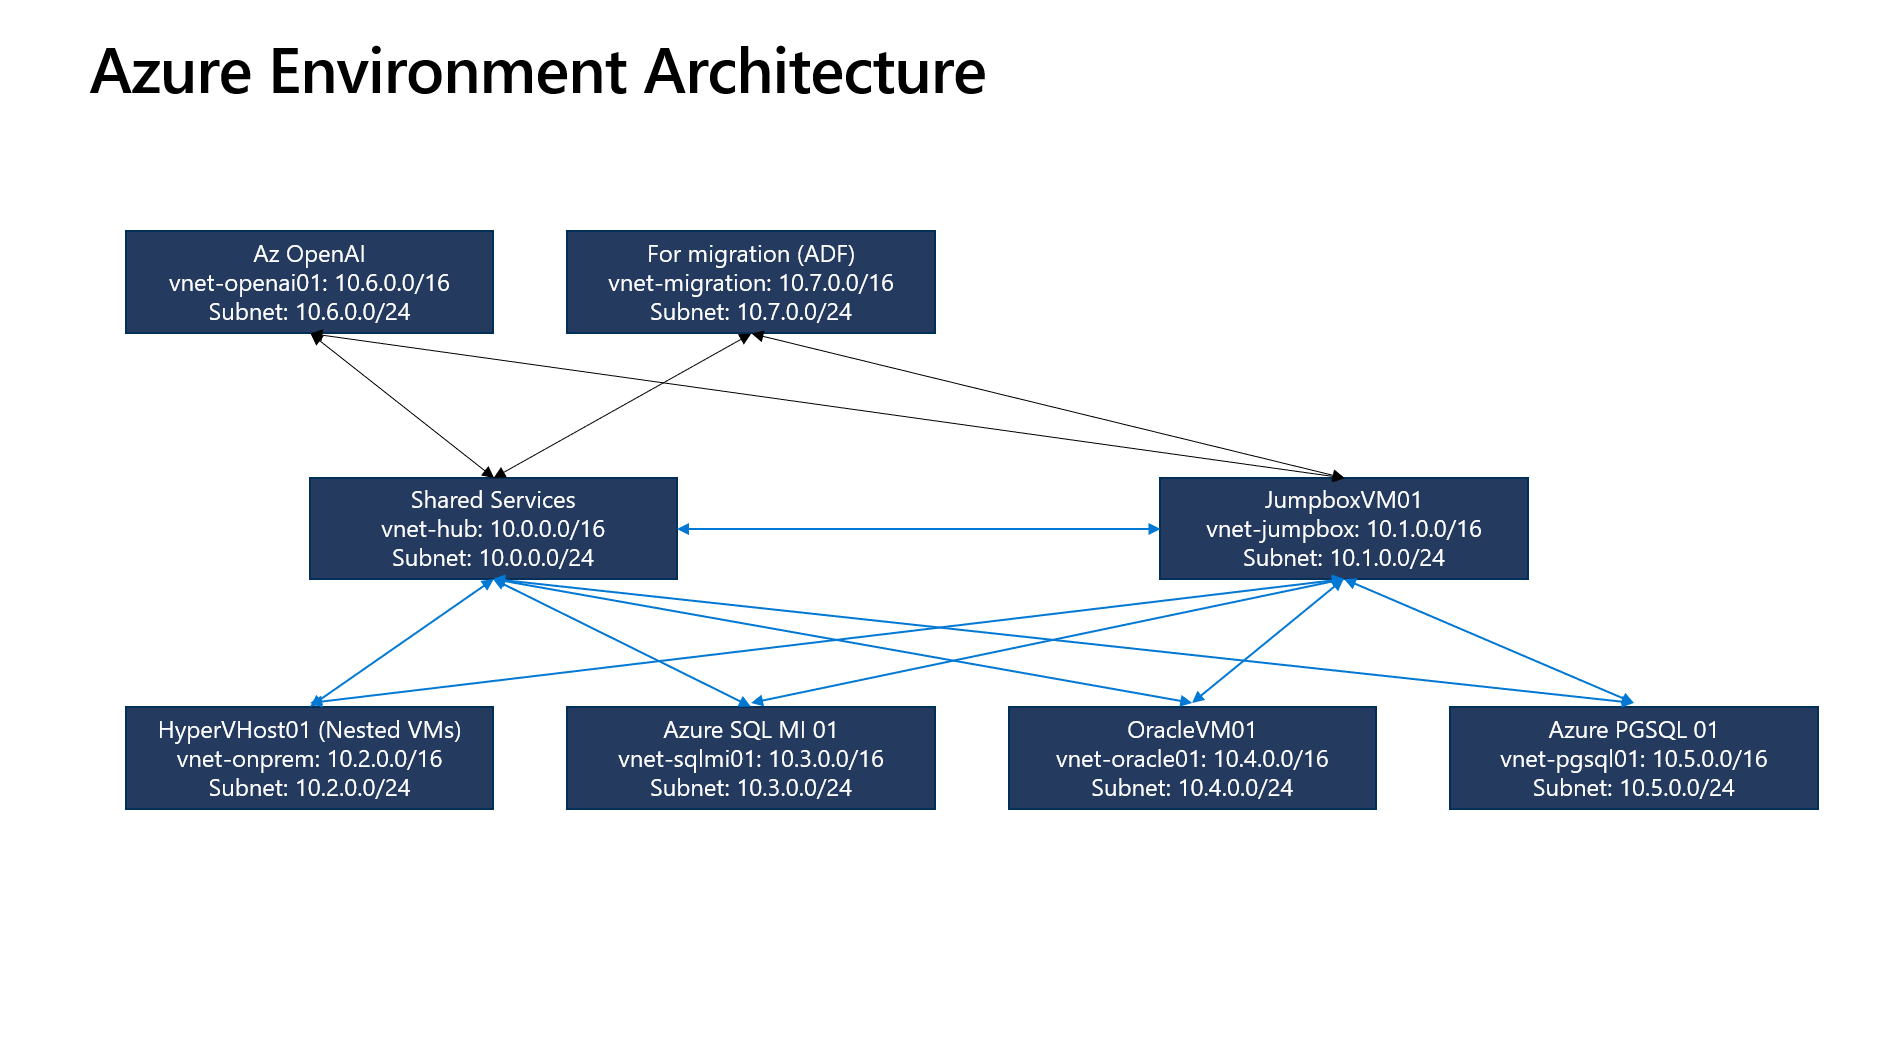
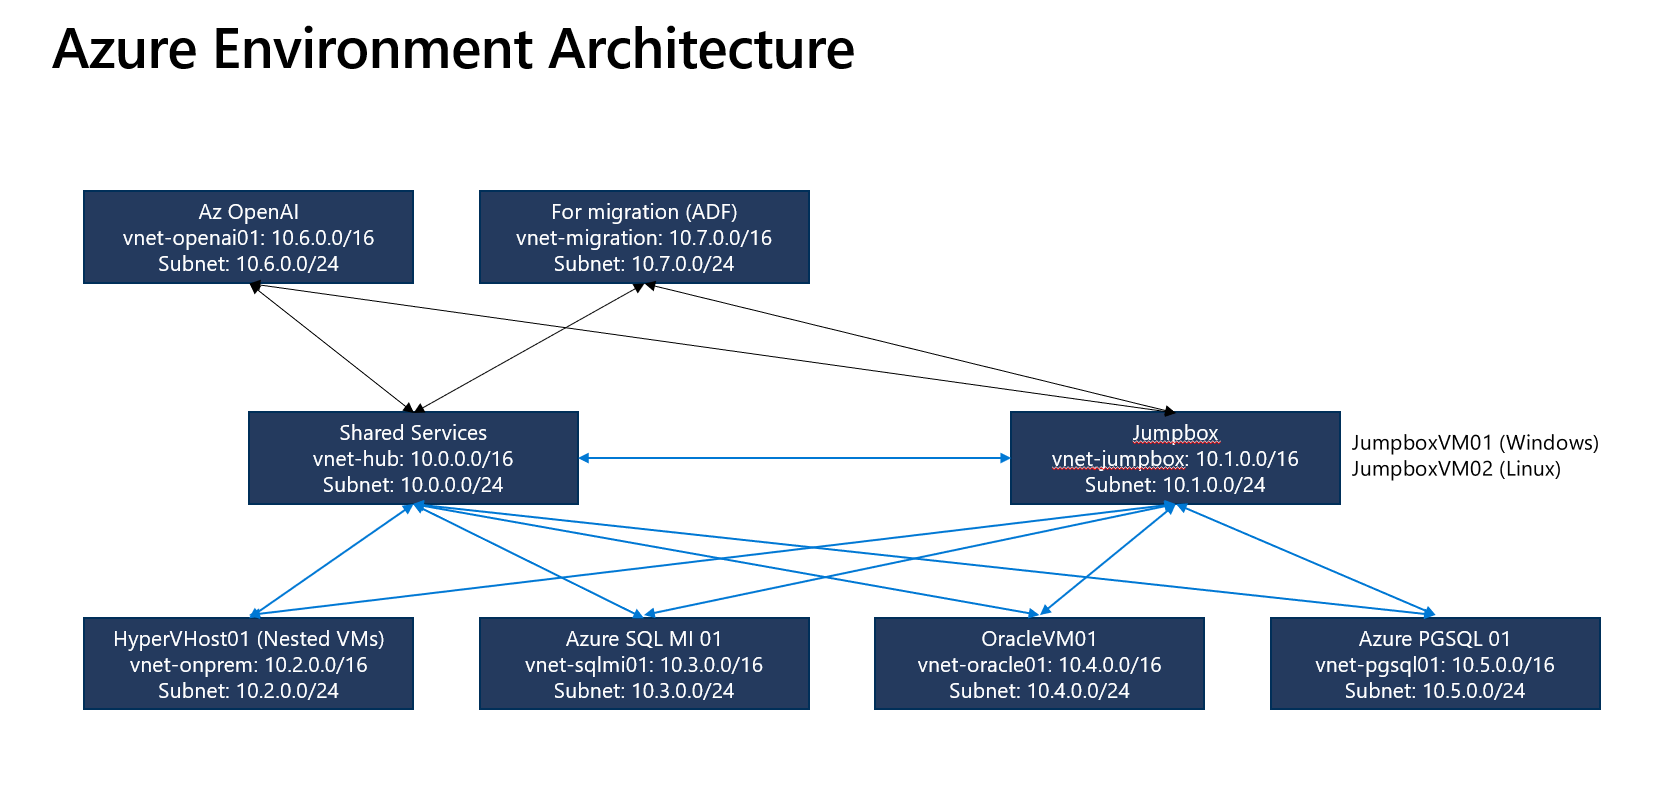
update images

diff --git a/setup/overview.md b/setup/overview.md
@@ -13,12 +13,14 @@ Use it to understand the logical topology before deploying or extending addition
 
 ## Workloads
 
-| Resource Name       | Resource Group  | VNet            | Subnet                         | Public IP              | Private IP | Description                                   |
-| ------------------- | --------------- | --------------- | ------------------------------ | ---------------------- | ---------- | --------------------------------------------- |
-| `JumpboxVM01`       | `rg-jumpbox`    | `vnet-jumpbox`  | `subnet-vnet-jumpbox-backend`  | `<assigned-public-ip>` | `10.1.0.4` | Jumpbox VM                                    |
-| `OracleVM01`        | `rg-oracle01`   | `vnet-oracle01` | `subnet-vnet-oracle01-backend` | `No Public IP`         | `10.5.0.4` | Oracle-Linux 8.10 and Oracle Database 21c XE  |
-| `azpgsqlprod01`     | `rg-pgsql03`    | `vnet-pgsql03`  | `subnet-vnet-pgsql03-backend`  | `No Public IP`         | `10.6.0.4` | Azure Database for PostgreSQL Flexible Server |
-| `AzOpenAIModern01 ` | `rg-openai01`   | `vnet-openai01` | `subnet-vnet-openai01-backend` | `No Public IP`         | `10.7.0.4` | Azure OpenAI with gpt-4.1 model               |
+| Resource Name       | Resource Group  | VNet            | Public IP              | Private IP | Description                                   |
+| ------------------- | --------------- | --------------- | ---------------------- | ---------- | --------------------------------------------- |
+| `JumpboxVM01`       | `rg-jumpbox`    | `vnet-jumpbox`  | `<assigned-public-ip>` | `10.1.0.4` | Jumpbox VM                                    |
+| `HyperHostVM01`     | `rg-onprem`     | `vnet-onprem`   | `<assigned-public-ip>` | `10.2.0.4` | HyperV VM with nested VMs                     |
+| `azsqlmidevtest01`  | `rg-sqlmi01`    | `vnet-sqlmi01`  | `No Public IP`         | `10.3.0.9` | Azure SQL Managed Instance                    |
+| `OracleVM01`        | `rg-oracle01`   | `vnet-oracle01` | `No Public IP`         | `10.4.0.4` | Oracle-Linux 8.10 and Oracle Database 21c XE  |
+| `azpgsqlprod01`     | `rg-pgsql03`    | `vnet-pgsql03`  | `No Public IP`         | `10.5.0.4` | Azure Database for PostgreSQL Flexible Server |
+| `AzOpenAIModern01 ` | `rg-openai01`   | `vnet-openai01` | `No Public IP`         | `10.6.0.4` | Azure OpenAI with gpt-4.1 model               |
 
 
 ## Private DNS Zones
@@ -31,14 +33,14 @@ Use it to understand the logical topology before deploying or extending addition
 
 ## Private DNS Links
 
-| Virtual Network | Private DNS Link Name             | Private DNS Zones                         | Resource Group  |
-| --------------- | --------------------------------- | ----------------------------------------- | --------------- |
-| `vnet-jumpbox`  | `link-to-vnet-jumpbox-postgresql` | `privatelink.postgres.database.azure.com` | `rg-hub`        |
-| `vnet-jumpbox`  | `link-to-vnet-jumpbox-openai`     | `privatelink.openai.azure.com`            | `rg-hub`        |
-| `vnet-jumpbox`  | `link-to-vnet-jumpbox-azuresql`   | `privatelink.database.windows.net`        | `rg-hub`        |
-| `vnet-pgsql01`  | `link-to-vnet-pgsql01-postgresql` | `privatelink.postgres.database.azure.com` | `rg-hub`        |
-| `vnet-openai01` | `link-to-vnet-openai01-openai`    | `privatelink.openai.azure.com`            | `rg-hub`        |
-| `vnet-sqlmi01`  | `link-to-vnet-sqlmi01-azuresqlmi` | `privatelink.database.windows.net`        | `rg-hub`        |
+| Virtual Network | Private DNS Link Name             | Private DNS Zones                         |
+| --------------- | --------------------------------- | ----------------------------------------- |
+| `vnet-jumpbox`  | `link-to-vnet-jumpbox-postgresql` | `privatelink.postgres.database.azure.com` |
+| `vnet-jumpbox`  | `link-to-vnet-jumpbox-openai`     | `privatelink.openai.azure.com`            |
+| `vnet-jumpbox`  | `link-to-vnet-jumpbox-azuresql`   | `privatelink.database.windows.net`        |
+| `vnet-pgsql01`  | `link-to-vnet-pgsql01-postgresql` | `privatelink.postgres.database.azure.com` |
+| `vnet-openai01` | `link-to-vnet-openai01-openai`    | `privatelink.openai.azure.com`            |
+| `vnet-sqlmi01`  | `link-to-vnet-sqlmi01-azuresqlmi` | `privatelink.database.windows.net`        |
 
 
 

diff --git a/setup/create-onprem-environment.md b/setup/create-onprem-environment.md
@@ -864,29 +864,10 @@ Create a new Group for SQL
 
 #### Install SQL Server
 
-You can create a scenario like below
+- You can create a scenario like below
 
-![Onprem Environment](../images/Environment-OnPrem.png)
+  ![Onprem Environment](../images/Environment-OnPrem.png)
 
-- Install SQL Server Failover Cluster on Node01 and Node02
-  - Failover Group: SQL Workload01
-  - Network Name: SQLCluster01
-  - Network: 10.200.0.71
-  - Instance: SQL Server 2019 on MSSQLSERVER (1433)
-  - Service: Domain user account
-- Install SQL Server Standalone on Node01 
-  - Instance 2: SQL Server 2019 on INST01 (60636)
-- Install SQL Server Standalone on Node02 
-  - Instance 2: SQL Server 2019 on INST01 (63066)
-- Install SQL Server Standalone on Node03
-  - Instance 1: SQL Server 2019 on MSSQLSERVER (1433)
-  - Instance 2: SQL Server 2019 on INST01 (50264)
-  - Service: Domain user account
-- Install SQL Server Standalone on Node04
-  - Instance 1: SQL Server 2014 on MSSQLSERVER (1433)
-  - Instance 2: SQL Server 2016 on INST01 (62541)
-  - Instance 3: SQL Server 2019 on INST02 (49859)
-  - Service: Domain user account
 - Enable firewall for SQL ports in each node
 
     ```powershell
